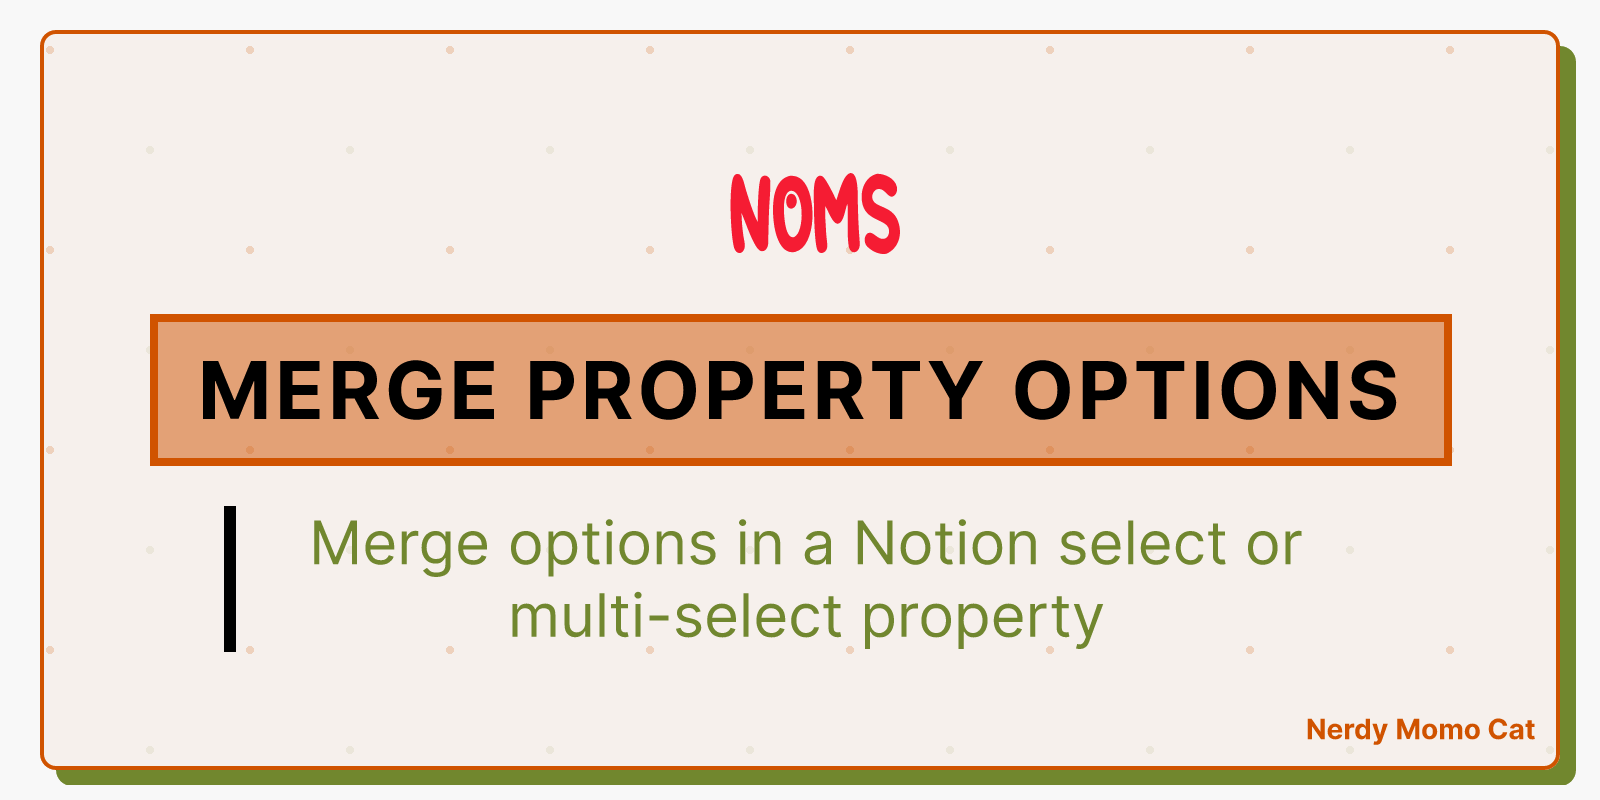
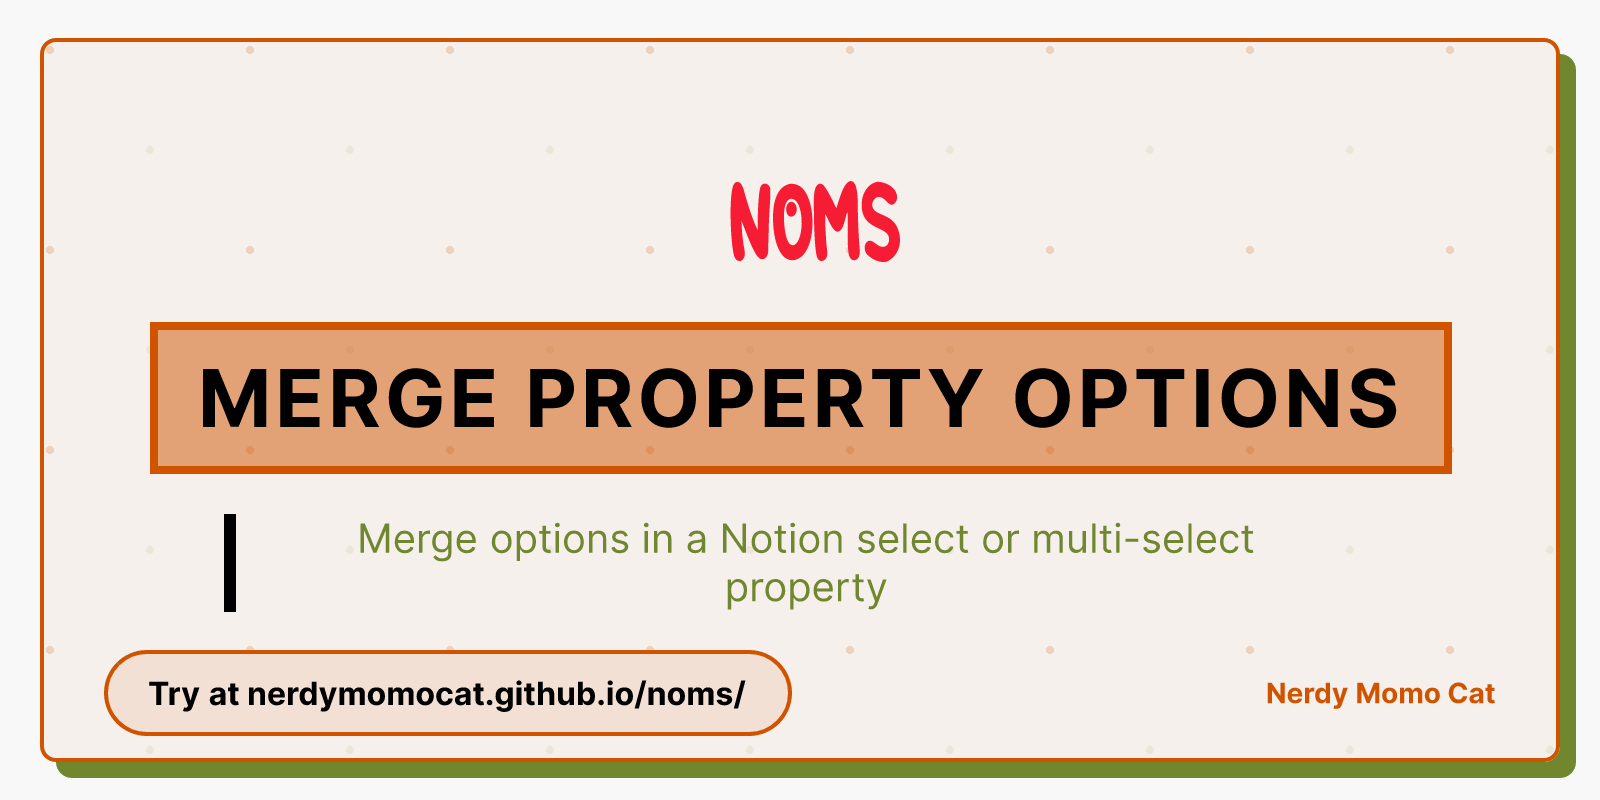
update ogImageTemplate styles and improve layout for better presentation

diff --git a/ogImages/ogImageTemplate.jsx b/ogImages/ogImageTemplate.jsx
@@ -95,9 +95,9 @@
         <div
             style={{
                 display: 'flex',
-                fontSize: '30px',
+                fontSize: '20px',
                 color: 'rgb(113,135,47)',
-                marginTop: '20px',
+                marginTop: '18px',
                 textAlign: 'center',
                 padding: '0px 20px',
                 margin: '20px 80px',
@@ -107,20 +107,39 @@
             Merge options in a Notion select or multi-select property
         </div>
 
-        {/* Author (right-aligned) */}
+        {/* Combined container for button and author */}
         <div
             style={{
                 display: 'flex',
                 width: '100%',
-                alignItems: 'flex-end',
-                justifyContent: 'flex-end',
-                fontSize: '14px',
-                color: 'rgb(208,83,0)',
-                marginTop: '10px',
-                fontWeight: 'medium'
+                justifyContent: 'space-between',
+                alignItems: 'center',
+                marginTop: '0px',
+                padding: '0 20px',
             }}
         >
-            <span>Nerdy Momo Cat</span>
+            <div
+                style={{
+                    padding: '10px 20px',
+                    backgroundColor: 'rgba(208,83,0,0.1)',
+                    borderRadius: '25px',
+                    border: '2px',
+                    borderColor: 'rgb(208,83,0)',
+                    fontSize: '16px',
+                    fontWeight: 'bold',
+                }}
+            >
+                Try at nerdymomocat.github.io/noms/
+            </div>
+            <div
+                style={{
+                    fontSize: '14px',
+                    color: 'rgb(208,83,0)',
+                    fontWeight: 'medium',
+                }}
+            >
+                Nerdy Momo Cat
+            </div>
         </div>
     </div>
 </div>
